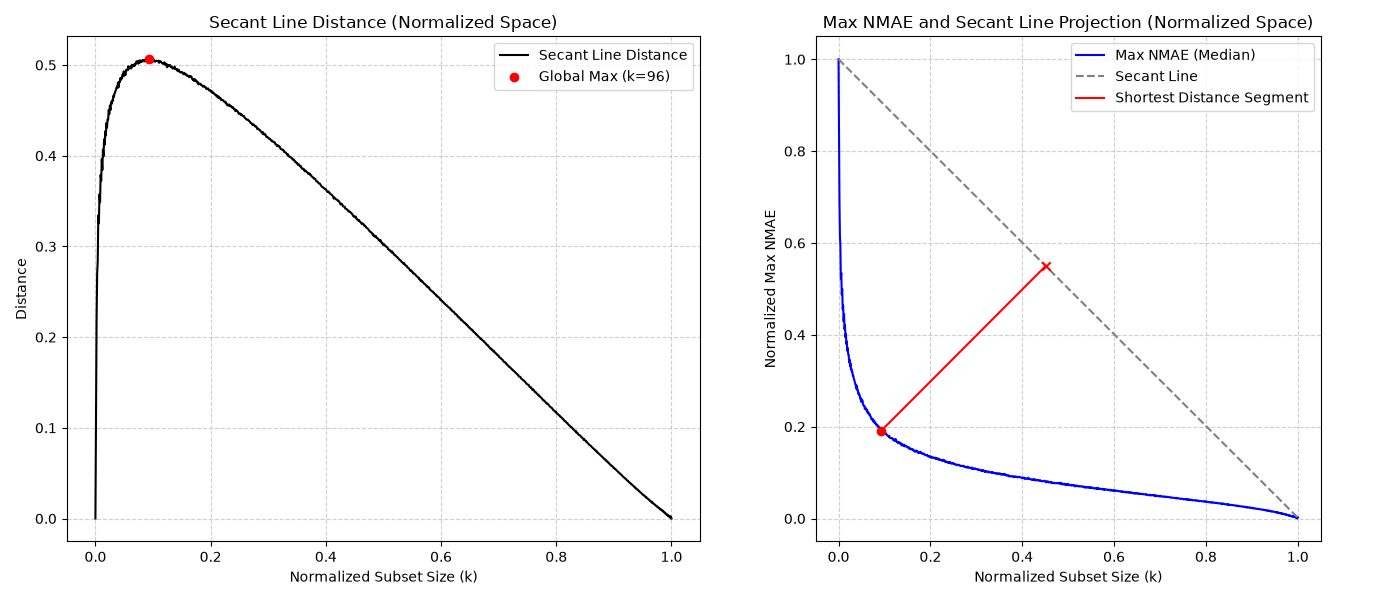
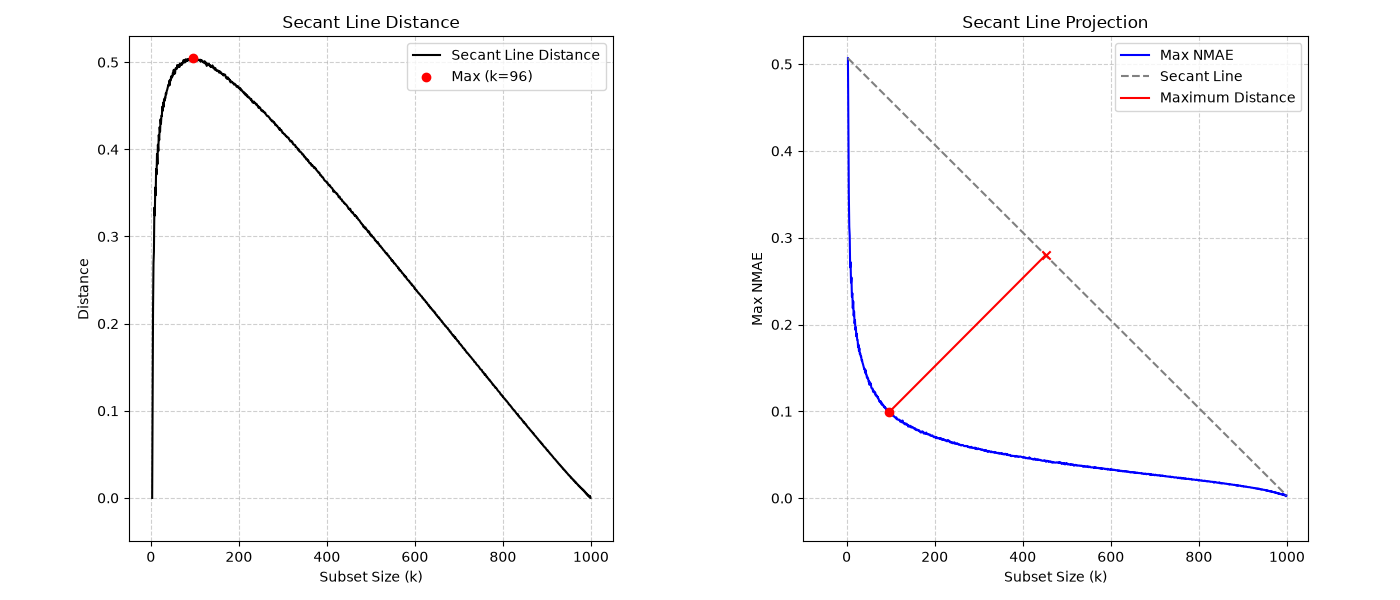
Refactor plotting functions for improved visualization and consistency

diff --git a/experimentos/multiple_runs/statistical_power_investigation.py b/experimentos/multiple_runs/statistical_power_investigation.py
@@ -76,17 +76,24 @@ def _plot_stat(ax, global_df, stat, title):
     k = global_df.index.to_numpy(dtype=float)
     y = global_df[f"global_nmae_{stat}"].to_numpy(dtype=float)
 
+    k_max = k.max()
+    y_max = y.max()
+
     ax.set_xlabel("Subset Size (k)")
     ax.set_ylabel("Max NMAE")
-
     ax.plot(k, y, label="Max NMAE", color="blue")
     ax.set_title(title)
+
+    ax.set_xlim(left=-50, right=1050)
+    ax.set_ylim(bottom=-0.05)
+    ax.set_aspect(k_max / y_max, adjustable="box")
+
     ax.grid(True, linestyle="--", alpha=0.6)
     ax.legend()
 
 
 def plot_medianiqr_convergence(global_df):
-    fig, axes = plt.subplots(1, 2, figsize=(12, 4))
+    fig, axes = plt.subplots(1, 2, figsize=(14, 6))
     _plot_stat(axes[0], global_df, "med", "Median")
     _plot_stat(axes[1], global_df, "iqr", "IQR")
     fig.suptitle("Global Worst-Case Convergence — Median / IQR")
@@ -99,21 +106,22 @@ def plot_medianiqr_convergence(global_df):
 
 
 def plot_medianiqr_convergence_with_k(global_df, k_star):
-    fig, axes = plt.subplots(1, 2, figsize=(12, 4))
+    fig, axes = plt.subplots(1, 2, figsize=(14, 6))
 
     _plot_stat(axes[0], global_df, "med", "Median")
-    axes[0].axvline(
-        k_star, color="black", linestyle=":", label=f"Optimal k={k_star:.0f}"
-    )
+    axes[0].axvline(k_star, color="black", linestyle=":", label=f"k={k_star:.0f}")
     axes[0].set_xticks(np.append(axes[0].get_xticks(), k_star))
     axes[0].legend()
 
     _plot_stat(axes[1], global_df, "iqr", "IQR")
-    axes[1].axvline(
-        k_star, color="black", linestyle=":", label=f"Optimal k={k_star:.0f}"
-    )
+    axes[1].axvline(k_star, color="black", linestyle=":", label=f"k={k_star:.0f}")
     axes[1].set_xticks(np.append(axes[1].get_xticks(), k_star))
     axes[1].legend()
+
+    for ax in axes:
+        ax.set_xlim(left=-50, right=1050)
+        ax.set_ylim(bottom=-0.05)
+        ax.grid(True, linestyle="--", alpha=0.6)
 
     fig.suptitle(f"Global Worst-Case Convergence — Median / IQR (k*={k_star:.0f})")
     plt.tight_layout()
@@ -128,8 +136,11 @@ def analyze_secant_distance(global_df):
     k = global_df.index.to_numpy(dtype=float)
     y = global_df["global_nmae_med"].to_numpy(dtype=float)
 
-    k_norm = (k - k.min()) / (k.max() - k.min())
-    y_norm = (y - y.min()) / (y.max() - y.min())
+    k_max = k.max()
+    y_max = y.max()
+
+    k_norm = k / k_max
+    y_norm = y / y_max
 
     x1, y1 = k_norm[0], y_norm[0]
     x2, y2 = k_norm[-1], y_norm[-1]
@@ -144,6 +155,7 @@ def analyze_secant_distance(global_df):
     max_dist = dist_secant[idx_max]
 
     k_star_original = k[idx_max]
+    y_star_original = y[idx_max]
 
     v_x, v_y = x2 - x1, y2 - y1
     w_x, w_y = k_star_norm - x1, y_star_norm - y1
@@ -151,41 +163,52 @@ def analyze_secant_distance(global_df):
     dot_vv = v_x**2 + v_y**2
     t = dot_wv / dot_vv
 
-    proj_x = x1 + t * v_x
-    proj_y = y1 + t * v_y
+    proj_x_norm = x1 + t * v_x
+    proj_y_norm = y1 + t * v_y
+
+    proj_x = proj_x_norm * k_max
+    proj_y = proj_y_norm * y_max
 
     fig, axes = plt.subplots(1, 2, figsize=(14, 6))
 
-    axes[0].plot(k_norm, dist_secant, color="black", label="Secant Line Distance")
+    dist_max = dist_secant.max()
+    axes[0].plot(k, dist_secant, color="black", label="Secant Line Distance")
     axes[0].scatter(
-        k_star_norm,
+        k_star_original,
         max_dist,
         color="red",
-        label=f"Global Max (k={k_star_original:.0f})",
+        label=f"Max (k={k_star_original:.0f})",
         zorder=5,
     )
-    axes[0].set_title("Secant Line Distance (Normalized Space)")
-    axes[0].set_xlabel("Normalized Subset Size (k)")
+    axes[0].set_title("Secant Line Distance")
+    axes[0].set_xlabel("Subset Size (k)")
     axes[0].set_ylabel("Distance")
+    axes[0].set_xlim(left=-50, right=1050)
+    axes[0].set_ylim(bottom=-0.05)
+    axes[0].set_aspect(k_max / dist_max, adjustable="box")
     axes[0].grid(True, linestyle="--", alpha=0.6)
     axes[0].legend()
 
-    axes[1].plot(k_norm, y_norm, color="blue", label="Max NMAE (Median)")
-    axes[1].plot([x1, x2], [y1, y2], color="gray", linestyle="--", label="Secant Line")
+    axes[1].plot(k, y, color="blue", label="Max NMAE")
     axes[1].plot(
-        [k_star_norm, proj_x],
-        [y_star_norm, proj_y],
+        [k[0], k[-1]], [y[0], y[-1]], color="gray", linestyle="--", label="Secant Line"
+    )
+    axes[1].plot(
+        [k_star_original, proj_x],
+        [y_star_original, proj_y],
         color="red",
         linestyle="-",
-        label="Shortest Distance Segment",
+        label="Maximum Distance",
     )
-    axes[1].scatter(k_star_norm, y_star_norm, color="red", zorder=5)
+    axes[1].scatter(k_star_original, y_star_original, color="red", zorder=5)
     axes[1].scatter(proj_x, proj_y, color="red", marker="x", zorder=5)
 
-    axes[1].set_title("Max NMAE and Secant Line Projection (Normalized Space)")
-    axes[1].set_xlabel("Normalized Subset Size (k)")
-    axes[1].set_ylabel("Normalized Max NMAE")
-    axes[1].set_aspect("equal", adjustable="box")
+    axes[1].set_title("Secant Line Projection")
+    axes[1].set_xlabel("Subset Size (k)")
+    axes[1].set_ylabel("Max NMAE")
+    axes[1].set_xlim(left=-100)
+    axes[1].set_ylim(bottom=-0.05)
+    axes[1].set_aspect(k_max / y_max, adjustable="box")
     axes[1].grid(True, linestyle="--", alpha=0.6)
     axes[1].legend()
 
